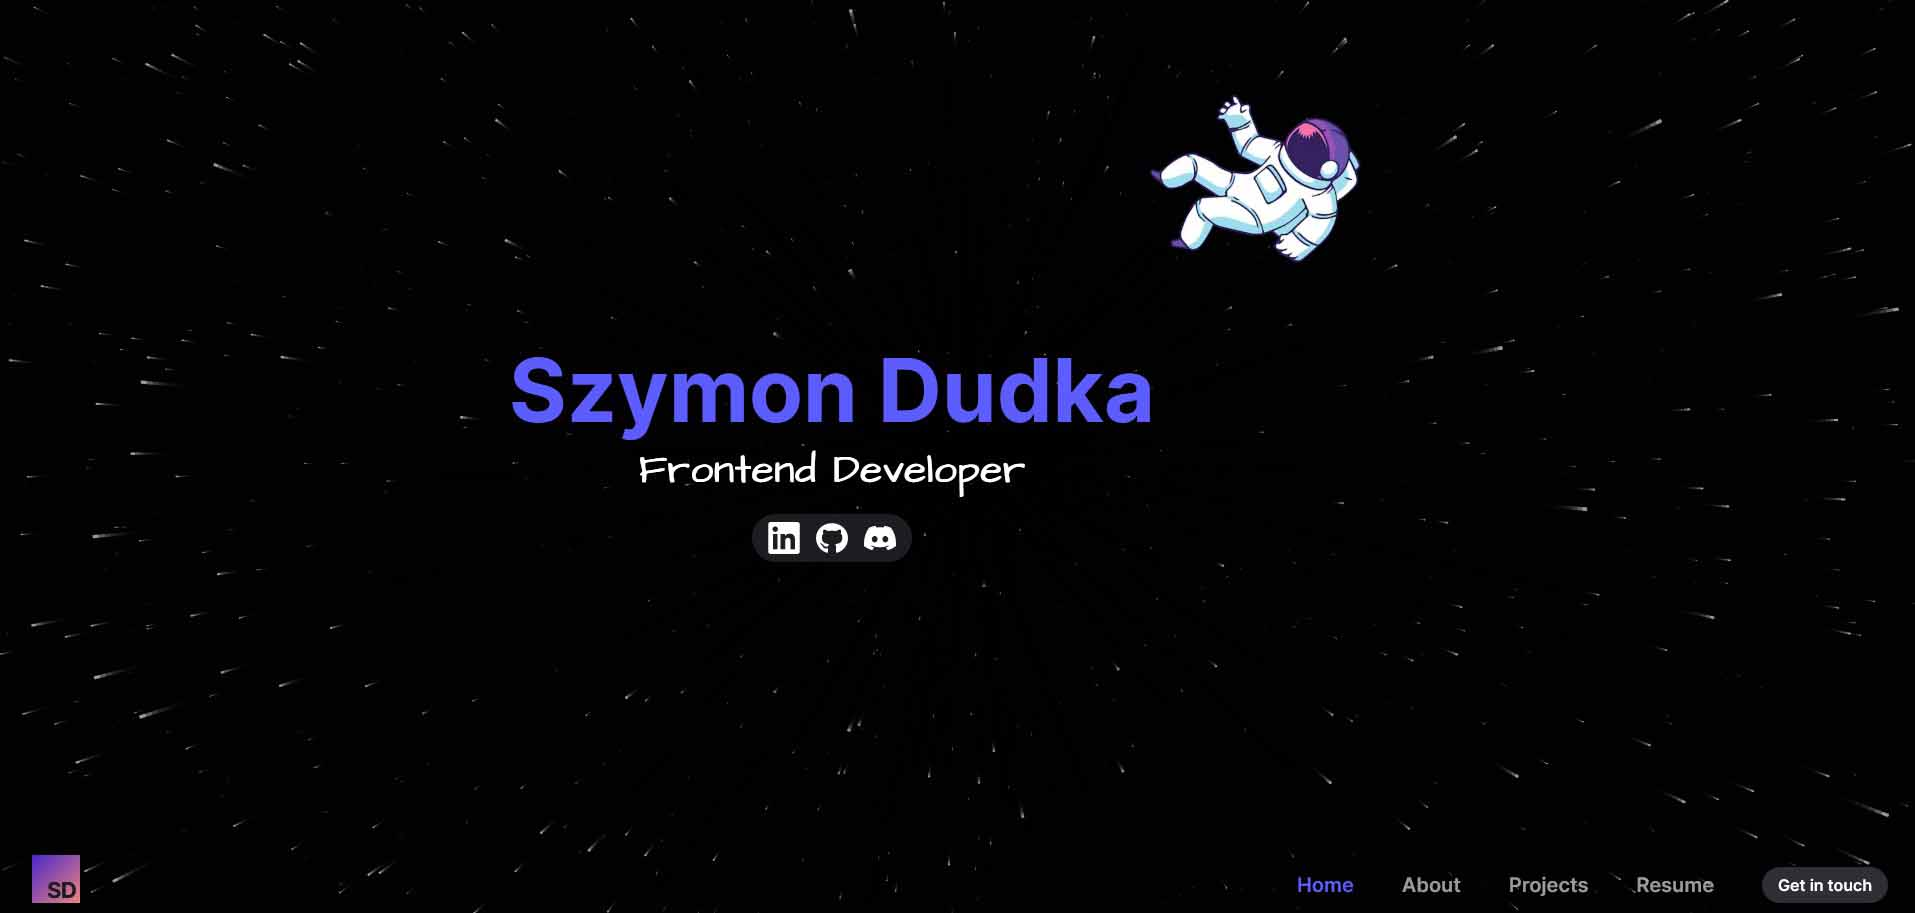
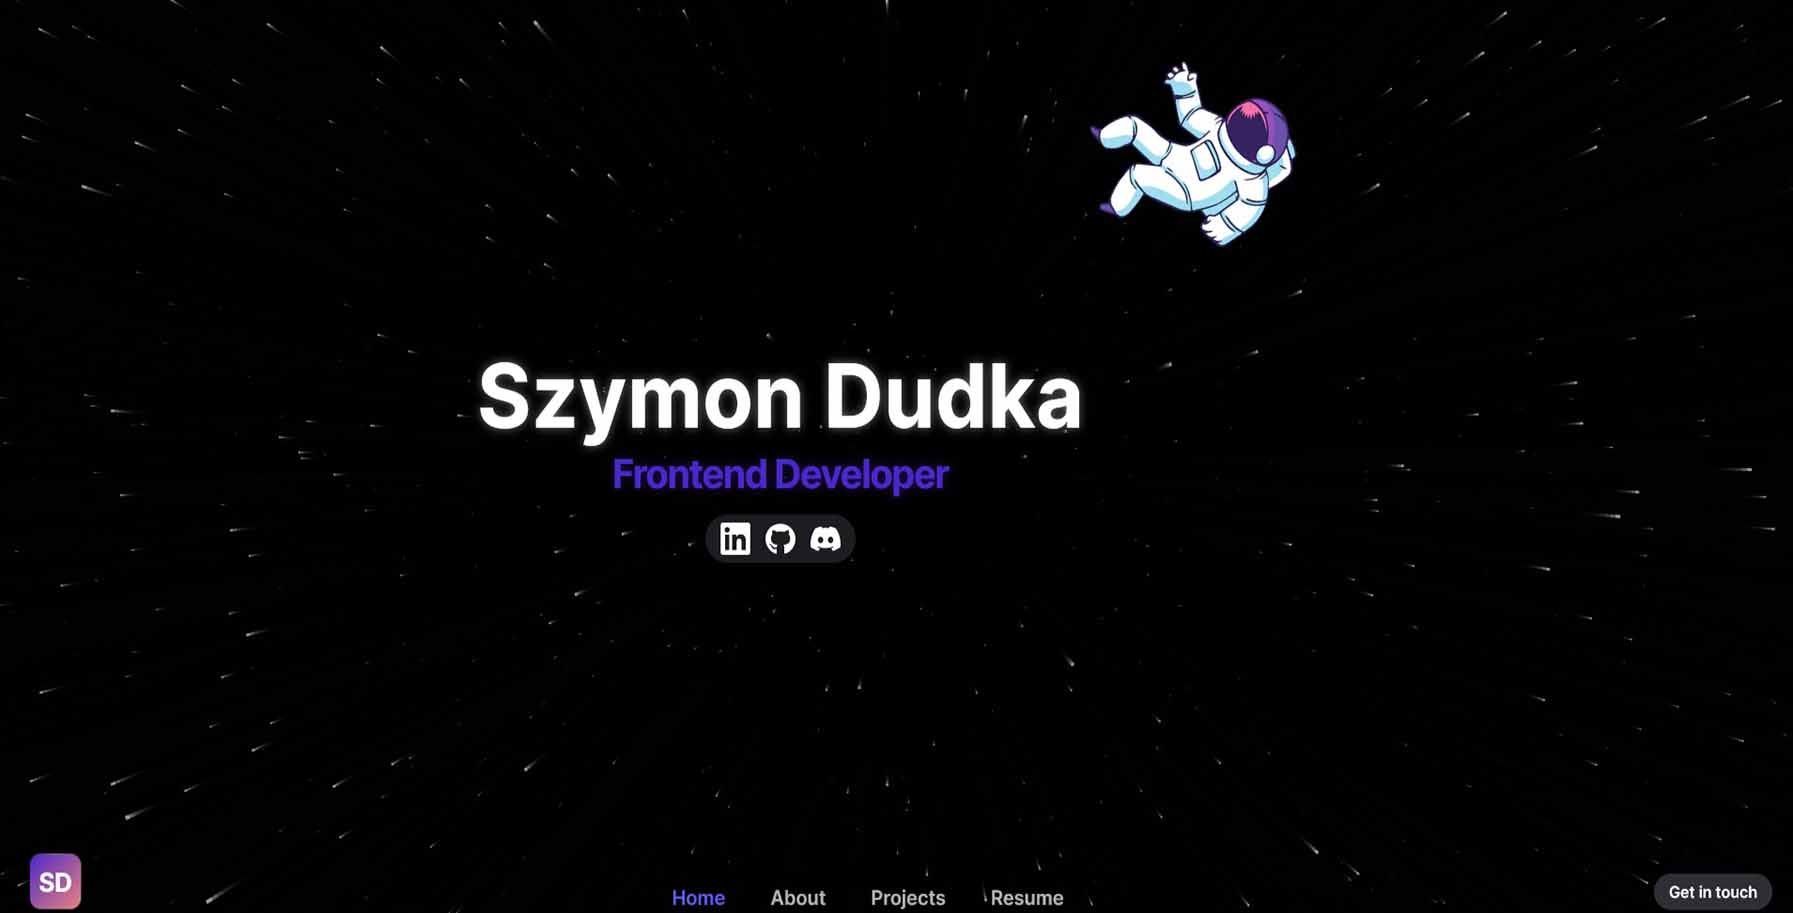
fix: some fixes and doc update

diff --git a/src/pages/resume.tsx b/src/pages/resume.tsx
@@ -127,7 +127,7 @@ function Resume(): JSX.Element {
 						<h2 className={styles.name}>Education & Courses</h2>
 						<section>
 							{educationList.map((item) => (
-								<div className={styles.sectionItem}>
+								<div key={item.title} className={styles.sectionItem}>
 									<h3>{item.title}</h3>
 									<p className={styles.sectionTimeline}>{item.timeline}</p>
 									<p className={styles.sectionDescription}>
@@ -149,13 +149,17 @@ function Resume(): JSX.Element {
 					<div className={styles.contentItem}>
 						<h2 className={styles.name}>Stack</h2>
 						{stackList.map((item) => (
-							<p className={styles.sectionDescription}>{item}</p>
+							<p key={item} className={styles.sectionDescription}>
+								{item}
+							</p>
 						))}
 					</div>
 					<div className={styles.contentItem}>
 						<h2 className={styles.name}>Hobby / Interest</h2>
 						{hobbyList.map((item) => (
-							<p className={styles.sectionDescription}>{item}</p>
+							<p key={item} className={styles.sectionDescription}>
+								{item}
+							</p>
 						))}
 					</div>
 				</div>

diff --git a/src/components/Layout/Navbar/Navbar.module.css b/src/components/Layout/Navbar/Navbar.module.css
@@ -106,9 +106,9 @@
 	filter: drop-shadow(0 0 0.3rem #ffffff70);
 }
 
-.menuItemsLink:active {
+/* .menuItemsLink:active {
 	opacity: 0.5;
-}
+} */
 
 .contactLink {
 	font-size: 20px;
@@ -119,10 +119,10 @@
 .menuItemsLink.active {
 	color: var(--primary-color);
 	opacity: 1;
+	pointer-events: none;
 }
 
 .contactLink {
-	/* margin-top: 2rem; */
 	padding: 0.5rem 1rem;
 	display: block;
 	width: max-content;
@@ -130,6 +130,7 @@
 	background-color: var(--bg-secondary);
 	border-radius: 2rem;
 	z-index: 20;
+	transition: filter 0.3s;
 }
 
 .nav > .contactLink {
@@ -137,12 +138,16 @@
 }
 
 .contactLink:hover {
-	background: var(--main);
 	filter: drop-shadow(0 0 0.3rem #ffffff70);
 }
 
+/* .contactLink:active {
+	opacity: 0.7;
+} */
+
 .contactLink.active {
-	color: #ffffff;
+	background: var(--main);
+	pointer-events: none;
 }
 
 .contactLink:last-child {

diff --git a/src/components/Layout/Navbar/Navbar.tsx b/src/components/Layout/Navbar/Navbar.tsx
@@ -102,13 +102,19 @@ function Navbar(): JSX.Element {
 				</ul>
 				<Link
 					href="/contact"
-					className={styles.contactLink}
+					className={`${styles.contactLink} ${
+						pathname === '/contact' ? styles.active : ''
+					}`}
 					onClick={handleToggle}>
 					Get in touch
 				</Link>
 			</div>
 
-			<Link href="/contact" className={styles.contactLink}>
+			<Link
+				href="/contact"
+				className={`${styles.contactLink} ${
+					pathname === '/contact' ? styles.active : ''
+				}`}>
 				Get in touch
 			</Link>
 

diff --git a/README.md b/README.md
@@ -2,11 +2,9 @@
 
 ![tutorial thumbnail](./src/assets/_thumbnail.jpg)
 
-My own portfolio page. Responsive website without the use of any CSS framework.
+My portfolio website. A responsive website built with Next.js and the Sanity v3 CMS embedded Studio.
 
 https://szymondudka.xyz
-
-https://personal-portfolio-sd.vercel.app
 
 ## Main technologies
 
@@ -28,31 +26,30 @@ https://personal-portfolio-sd.vercel.app
 
 ## Details
 
-- created with React (Next.js) and TypeScript
+- created with the React.js and Next.js frameworks using TypeScript
 - server-side rendering and better SEO
-- CMS with Sanity.io
+- CMS with Sanity v3 CMS embedded Studio
 - animations created with Framer Motion
-- HTML semantic tags
-- responsive website design without using any CSS framework
-- using CSS modules
-- design created with Figma Software
-- inspired by the Gridfolio Framer template and one of Astro's landing page example
+- Semantic HTML tags
+- responsive website design without using a CSS framework
+- styling with CSS modules
+- design created with Figma software
 
 ## Tutorial and project structure
 
-Inside of project, you'll see the following folders and files:
+Inside the project you'll see the following folders and files:
 
 ```
 PROJECT_ROOT
-├── pages               # page files
 ├── public              # static assets
 ├── sanity              # Sanity studio
 └── src
     ├── assets          # images and files
     ├── components      # React components
-    ├── lib             # config files
-    ├── styles          # global and page styles
-    └── types           # TypeScript types
+    ├── interfaces      # TypeScript interfaces
+    ├── lib             # Sanity Studio files
+    ├── pages           # page files
+    └── styles          # global and page styles
 ```
 
 Download the repository to your local machine and run to download all missing dependencies:
@@ -73,13 +70,12 @@ To build your application use:
 npm run build
 ```
 
-<!-- **If you want to deploy your application, you have to move `.htaccess` file to your build folder because this project provides only client-side routing.** -->
+**To manage the content of the site, you need to create a new sanity project. See the official documentation: https://www.sanity.io/docs/getting-started**
 
-**To manage the content on the website you need to create a new sanity project. Use schemas from the `sanity/schemas` folder. Check the official documentation: https://www.sanity.io/docs/getting-started**
-
-After creating your sanity project, create the `.env.local` file in the main folder and enter the following data:
+After you have created your Sanity project, create the `.env.local` file in the main folder and enter the following data:
 
 ```
 NEXT_PUBLIC_SANITY_PROJECT_ID = YOUR_SANITY_PROJECT_ID
-NEXT_PUBLIC_SANITY_PROJECT_DATASET = YOUR_SANITY_PROJECT_DATASET
+NEXT_PUBLIC_SANITY_DATASET = YOUR_SANITY_DATASET
+NEXT_PUBLIC_SANITY_API_VERSION = YOUR_SANITY_API_VERSION
 ```
